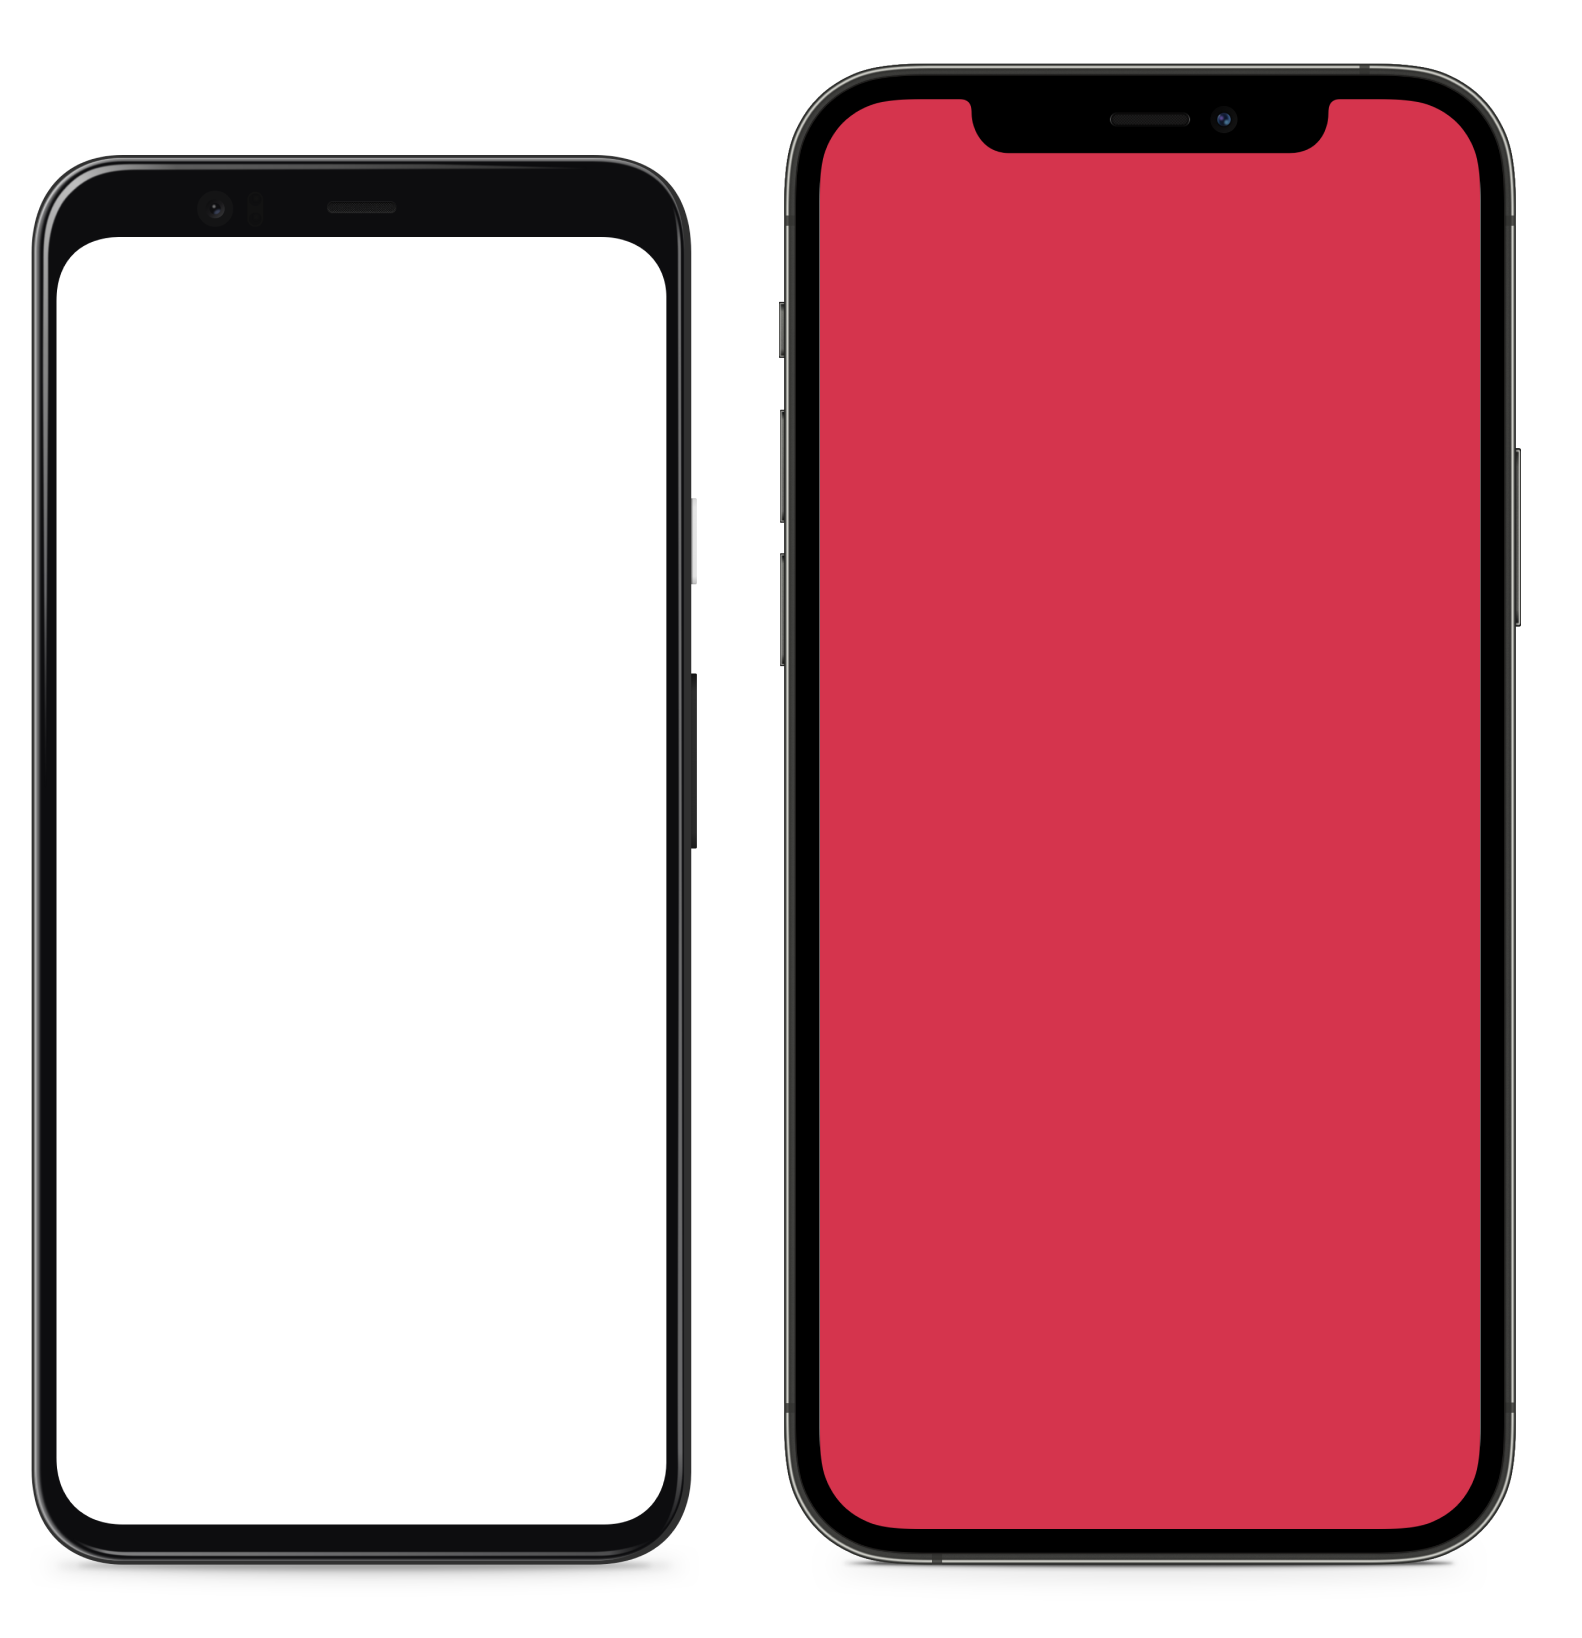
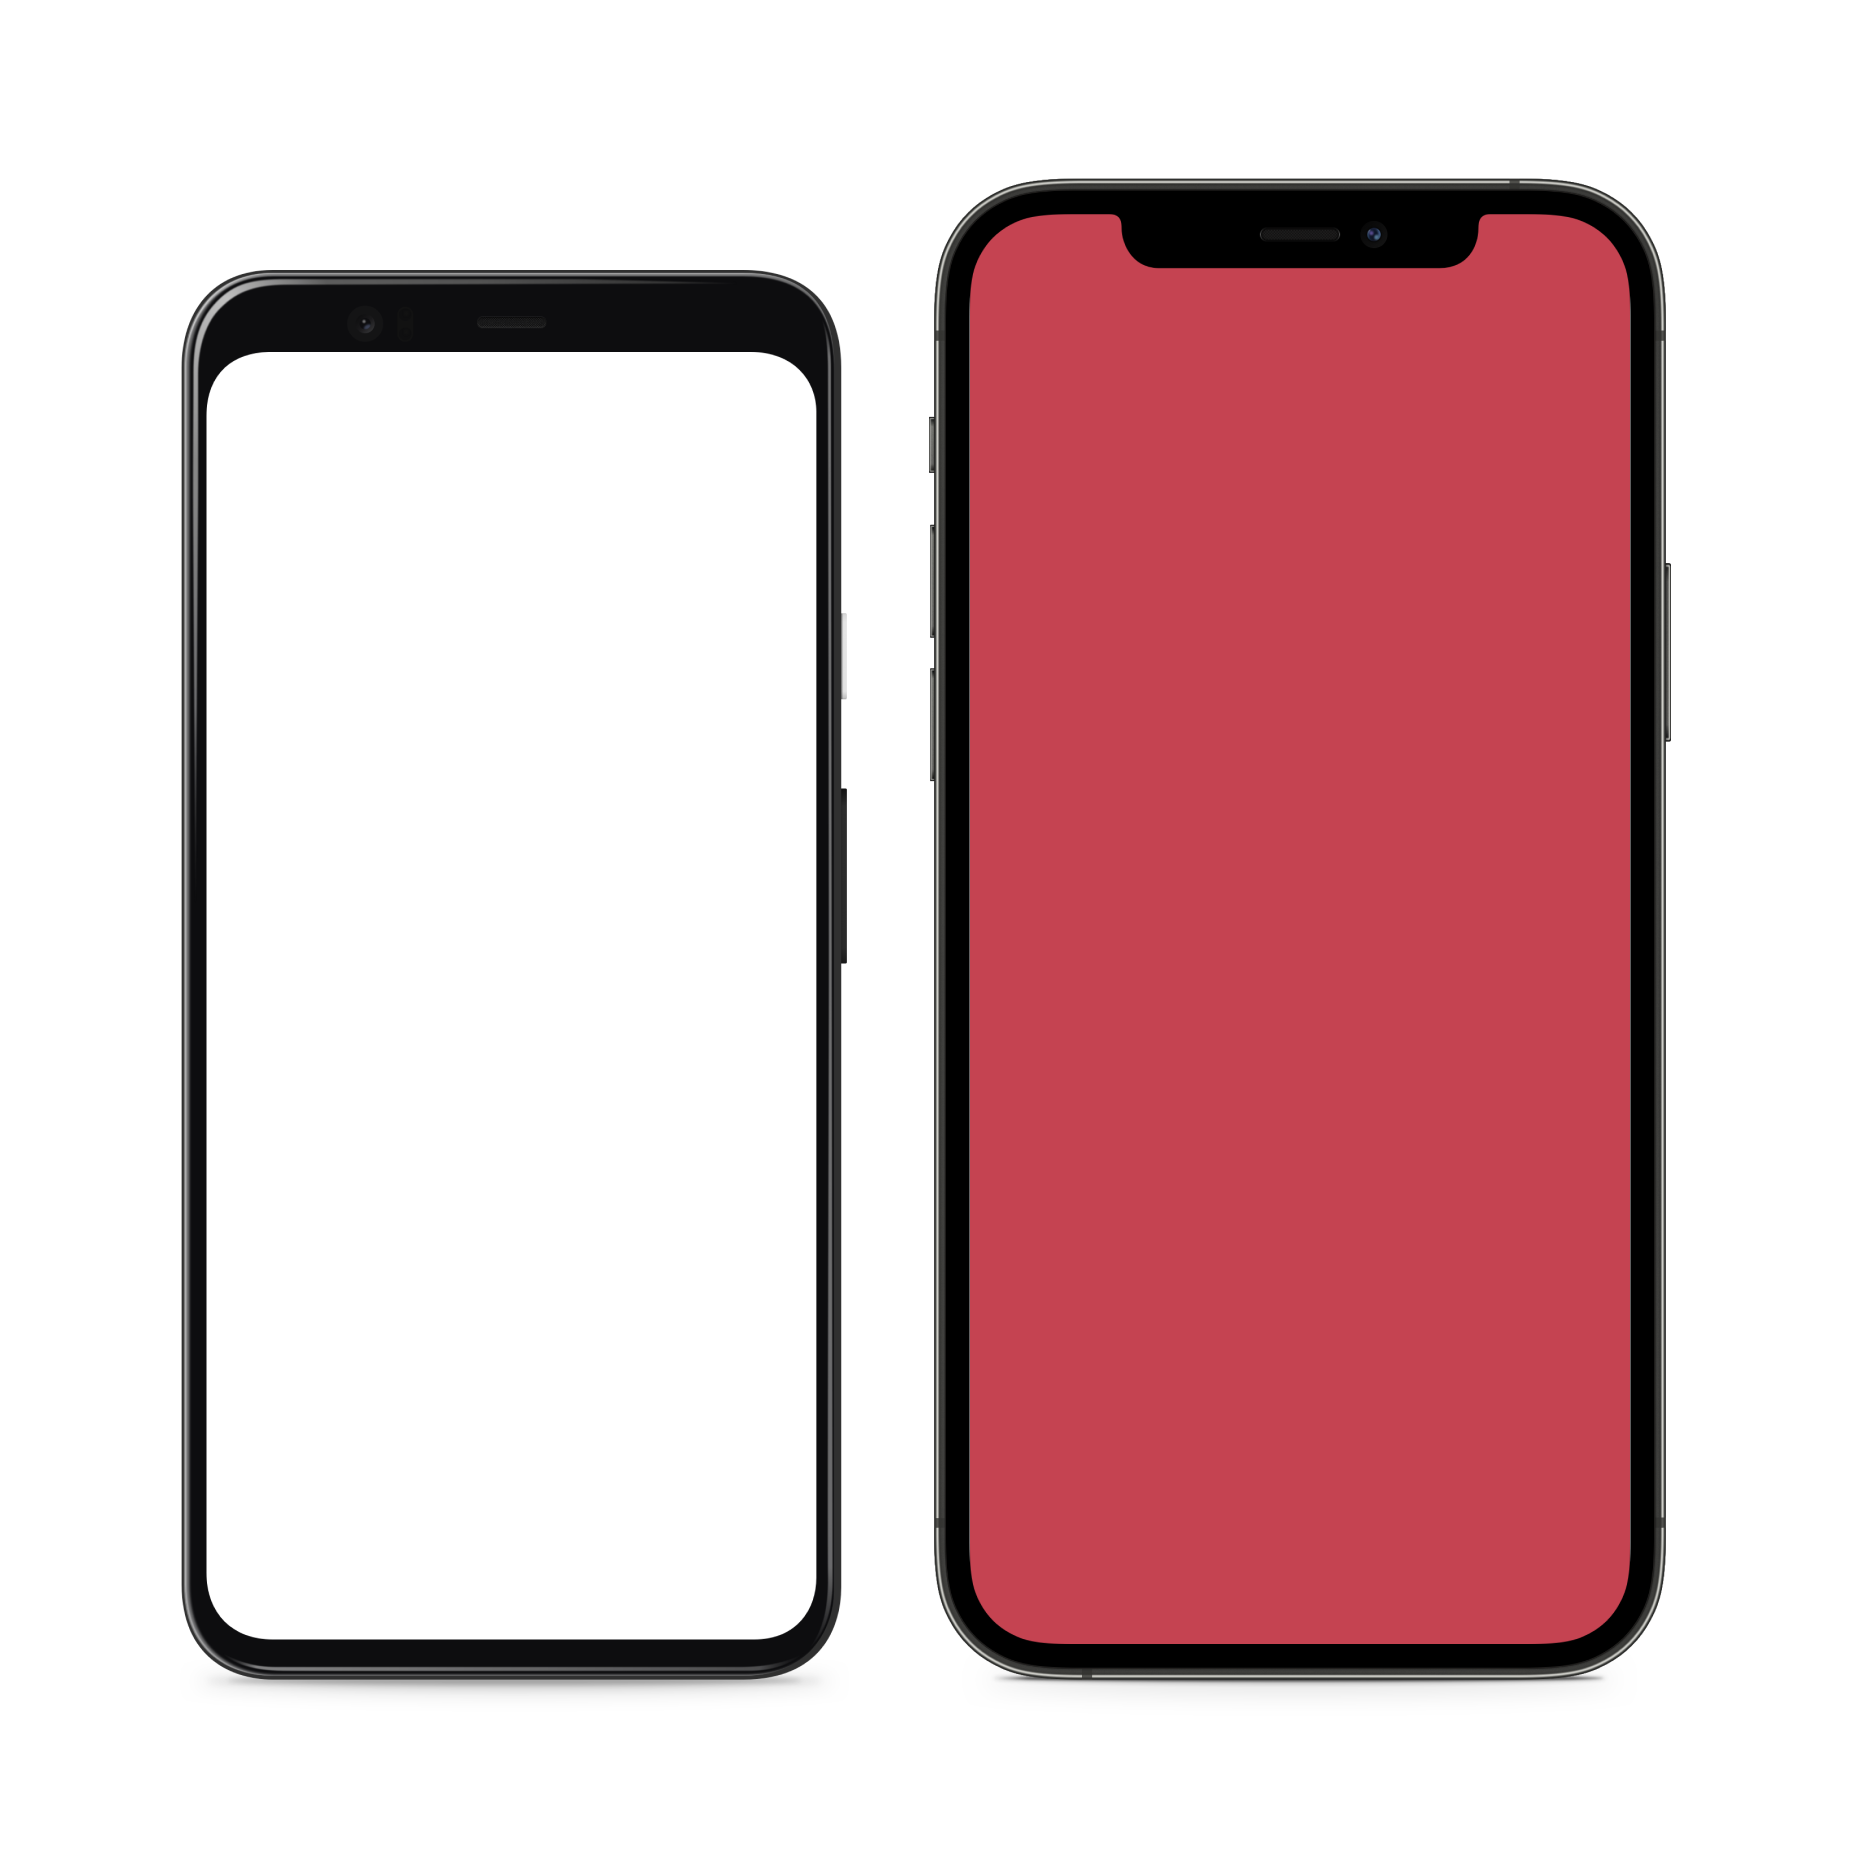
Improved proportions

Changed region(s): [[0.0, 0.0311, 0.9602, 0.9652]]

diff --git a/src/Data/Work.js b/src/Data/Work.js
@@ -2,11 +2,11 @@ export const Apps = {
   key: 0,
   galleryIndex: 0,
   scale: 0.8,
-  width: 1582,
-  height: 1638,
+  width: 1852,
+  height: 1862,
   smallWidth: 232,
   smallHeight: 240,
-  captionRightEdge: 822,
+  captionRightEdge: 836,
   image: "images/apps.png",
   href: "https://apps.apple.com/us/app/mollie/id1473455257?ls=1",
   label: "Enjoy managing payments on mobile. ↗",
@@ -19,7 +19,7 @@ export const Checkout = {
   key: 2,
   galleryIndex: 2,
   scale: 1,
-  width: 2024,
+  width: 2400,
   height: 1536,
   smallWidth: 375,
   smallHeight: 240,

diff --git a/src/Mamba/MorphBox.js b/src/Mamba/MorphBox.js
@@ -44,8 +44,8 @@ export function MorphBox(props) {
     const screenHeight = window.innerHeight;
     const screenWidth = window.innerWidth;
     const container = {
-      width: isMorphed ? screenWidth * 0.7 : props.smallWidth,
-      height: isMorphed ? screenHeight * 0.7 : props.smallHeight,
+      width: isMorphed ? screenWidth * 0.8 : props.smallWidth,
+      height: isMorphed ? screenHeight * 0.8 : props.smallHeight,
     };
     const content = {
       width: props.width,
